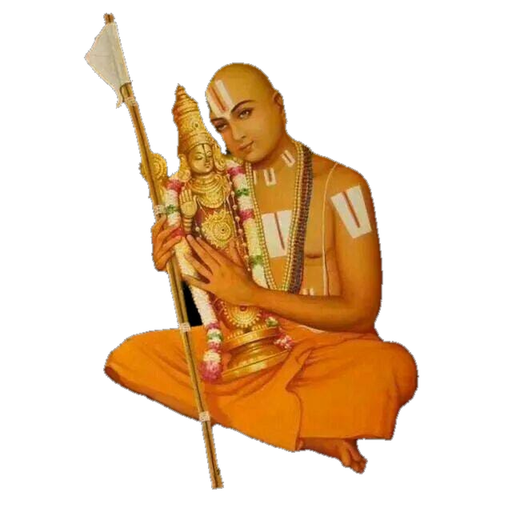
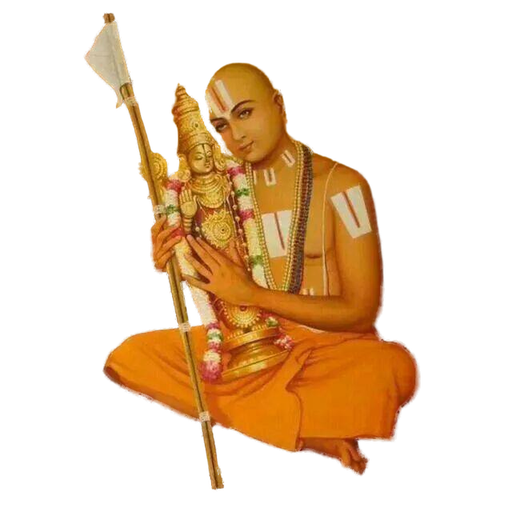
Use owner transparent PNG directly for alternate launcher

diff --git a/scripts/make_launcher_icon.py b/scripts/make_launcher_icon.py
@@ -1,8 +1,8 @@
 #!/usr/bin/env python3
 """Build two launchers from the owner's supplied square images.
 
-The alternate icon uses the owner's black-background JPEG with its connected
-black backdrop keyed to alpha. The original RGB of the figures is retained.
+The alternate icon uses the owner's supplied transparent PNG directly.
+Only launcher-size scaling is applied; no further background removal.
 """
 from pathlib import Path
 from PIL import Image,ImageDraw
@@ -18,7 +18,7 @@ def source(filename):
     return image.resize((MASTER,MASTER),Image.Resampling.LANCZOS)
 
 full=source('user-provided-icon.jpg')
-cutout=Image.open(OUT/'owner-cutout-transparent.png').convert('RGBA')
+cutout=Image.open(OUT/'source/user-provided-transparent-icon.png').convert('RGBA')
 assert cutout.size==(640,640)
 black=cutout.resize((MASTER,MASTER),Image.Resampling.LANCZOS)
 

diff --git a/README.md b/README.md
@@ -10,7 +10,7 @@ Content updater code validates P-256 signed manifests and per-shard hashes, down
 
 Corrections submission is hard-disabled pending the rotated app-key injection, current Worker contract, and an actual phone-path test. Correction-mode drafts are private per-pasuram atomic files; the sheet/review queue code does not send and is not a functioning correction service in this build. Draft retention has not had device QA. Do not reactivate it by changing only the boolean.
 
-The launcher includes two in-app selectable styles: the original rounded-corner painting and the owner's separately supplied Ramanujar/deity image with its solid black JPEG backdrop keyed to transparency at his request. The earlier manual cutout was rejected and is not bundled as an icon. Current previews await owner review; alias switching has not been device-tested.
+The launcher includes two in-app selectable styles: the original rounded-corner painting and the owner's own transparent PNG of Ramanujar and the deity. The earlier manual cutout and keyed JPEG were superseded and are not bundled as icons. Current previews await owner review; alias switching has not been device-tested.
 
 No audio playback or meanings are packaged. The two long madals have no source recitation URLs and audio licensing/rights are not resolved. The agreed later roadmap includes search upgrades, per-book resume, daily notification, Margazhi mode, notes/highlights, opt-in temple visit companion, recitation-session mode and offline audio. These are not part of this v7 reading candidate. Learn/Explore remain placeholders.
 
